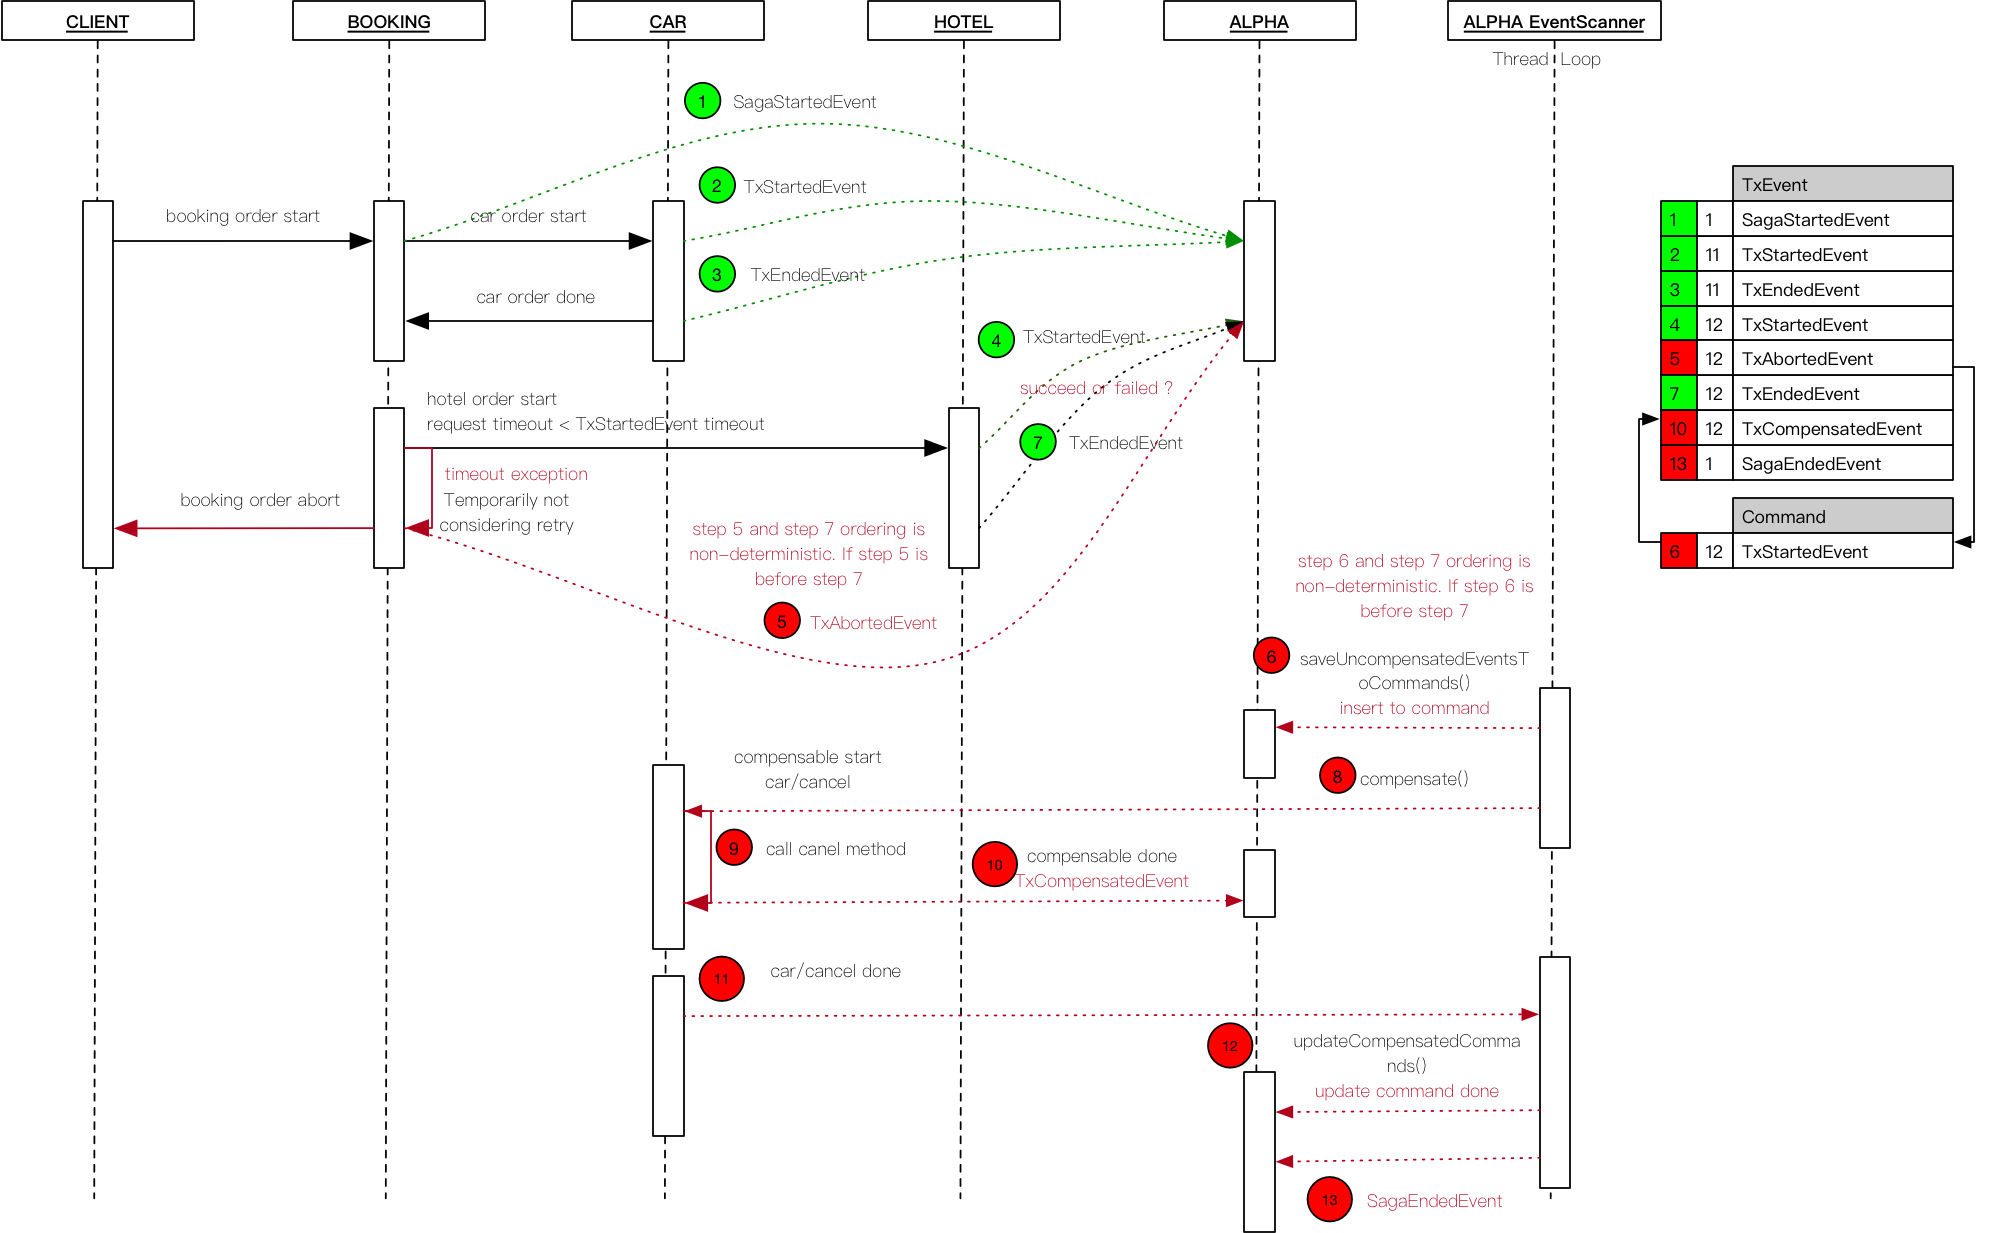
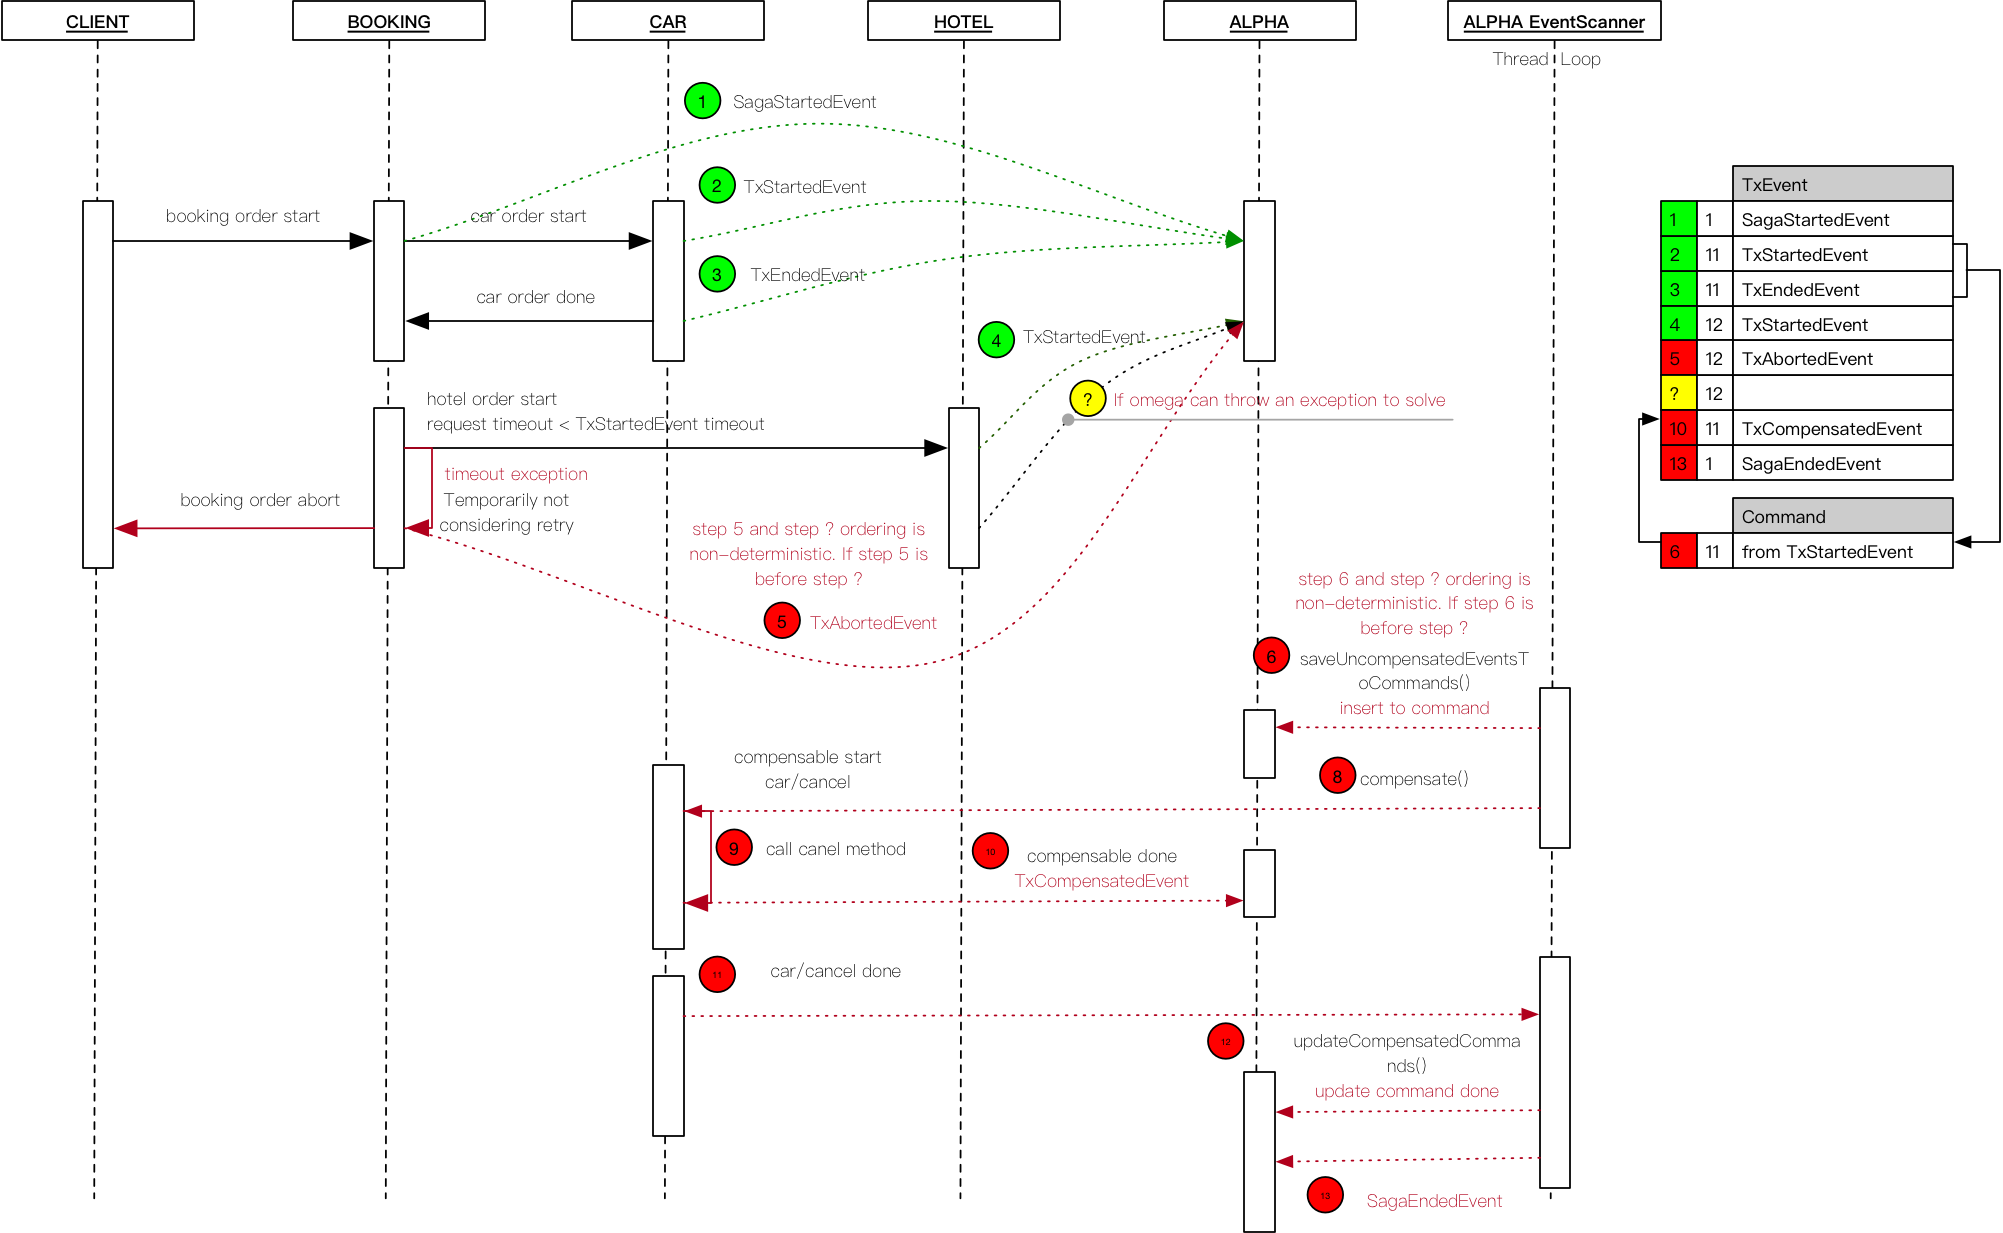
Add exception points

diff --git a/ServiceComb Alpha Saga/README.md b/ServiceComb Alpha Saga/README.md
@@ -6,7 +6,11 @@
 
 ![sequence-booking-normal](assets/sequence-booking-normal.png)
 
-2. 服务异常
+2. 可能存在的异常点
+
+   ![sequence-booking-hotel-exception](assets/sequence-booking-exception-points.png)
+
+3. 服务异常
 
    HOTEL 服务内部异常，触发事务补偿
 
